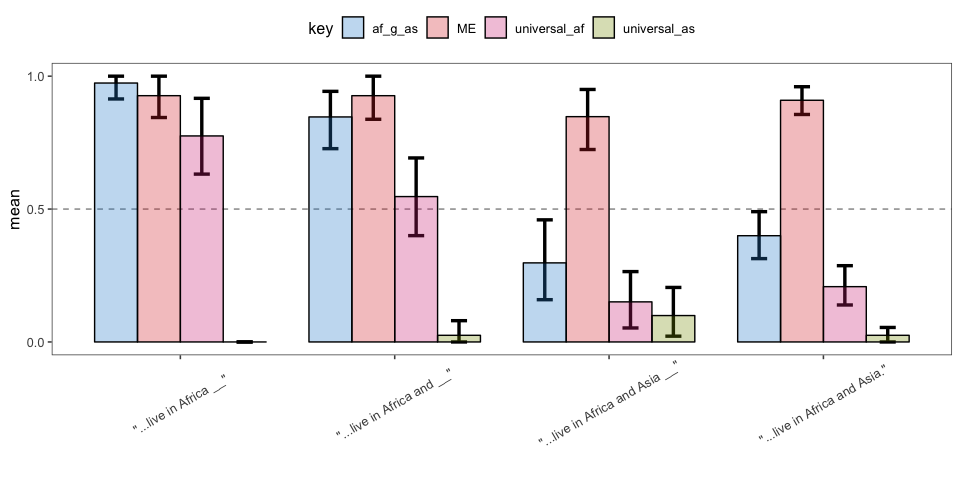
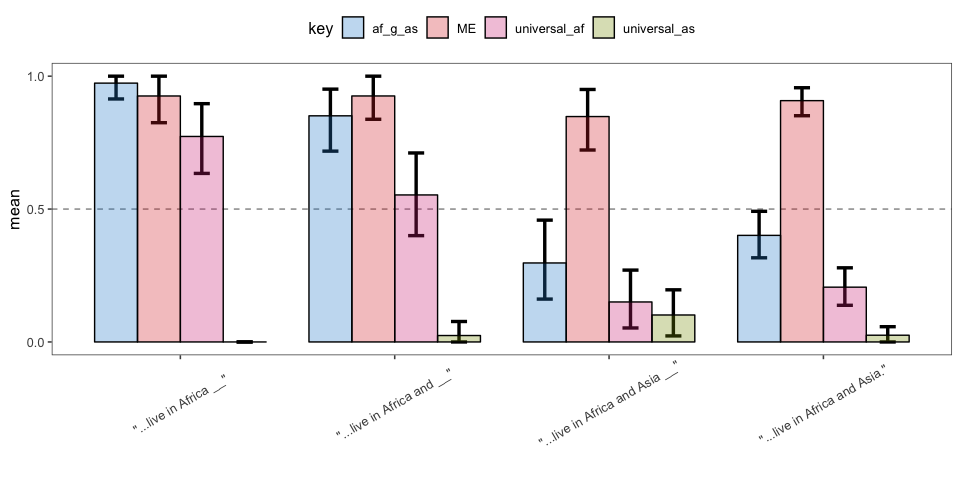
categorize stims for elephants-7, item analysis for elephants-7

diff --git a/experiments/js/stims-7.js b/experiments/js/stims-7.js
@@ -28,7 +28,8 @@ var filler_chapters = [
     property2: "are provided for by Zorxon",
       type: "filler",
       information: "full",
-      conjunctionBreak: "before"
+      conjunctionBreak: "before",
+      coordination: "vp"
   },
   {
     title: "Blins",
@@ -43,7 +44,8 @@ var filler_chapters = [
     property1: "have hollow bones",
       property2: "fly",
       information: "full",
-      conjuctionBreak: "after"
+      conjuctionBreak: "after",
+      coordination: "np"
   },
   {
     title: "Weather",
@@ -59,7 +61,8 @@ var filler_chapters = [
     property2: "last a long time",
       type: "filler",
       information: "full",
-      conjunctionBreak: "before"
+      conjunctionBreak: "before",
+      coordination: "np"
   },
   {
     title: "Morseths",
@@ -75,7 +78,8 @@ var filler_chapters = [
     property1: "build permanent structures called fendles",
       property2: "come on land to find mates",
       information: "both",
-      conjunctionBreak: "after"
+      conjunctionBreak: "after",
+      coordination: "np"
   },
   {
     title: "Kazzes",
@@ -90,7 +94,8 @@ var filler_chapters = [
     type: "filler",
       quantifier: "none",
       information: "full",
-      conjunctionBreak: "before"
+      conjunctionBreak: "before",
+      coordination: "np"
   },
   {
     title: "Wint of the Mountains",
@@ -107,7 +112,8 @@ var filler_chapters = [
     type: "filler",
       condition: "uninterrupted",
       information: "interruption",
-      conjunctionBreak: "after"
+      conjunctionBreak: "after",
+      coordination: "np"
   },
   {
       title: "Plovs",
@@ -123,7 +129,8 @@ var filler_chapters = [
       type: "filler",
       quantifier: "none",
       information: "both",
-      conjunctionBreak: "before"
+      conjunctionBreak: "before",
+      coordination: "np"
   },
   {
       title: "Yomis",
@@ -140,7 +147,8 @@ var filler_chapters = [
       condition: "single",
       quantifier: "all",
       information: "both",
-      conjunctionBreak: "after"
+      conjunctionBreak: "after",
+      coordination: "ap"
   },
   {
       title: "Mupors",
@@ -156,7 +164,8 @@ var filler_chapters = [
       condition: "single",
       quantifier: "most",
       information: "both",
-      conjunctionBreak: "before"
+      conjunctionBreak: "before",
+      coordination: "np"
   },
   {
       title: "Apaffs",
@@ -173,7 +182,8 @@ var filler_chapters = [
       condition: "single",
       quantifier: "most",
       information: "full",
-      conjunctionBreak: "after"
+      conjunctionBreak: "after",
+      coordination: "vp"
   },
   {
       title: "Supools",
@@ -189,7 +199,8 @@ var filler_chapters = [
       condition: "single",
       quantifier: "all",
       information: "full",
-      conjunctionBreak: "before"
+      conjunctionBreak: "before",
+      coordination: "pp"
   },
   {
       title: "Zorf the mapmaker",
@@ -207,7 +218,8 @@ var filler_chapters = [
       condition: "single",
       quantifier: "all",
       information: "both",
-      conjunctionBreak: "after"
+      conjunctionBreak: "after",
+      coordination: "pp"
   },
   {
       title: "Wopis",
@@ -223,7 +235,8 @@ var filler_chapters = [
       condition: "single",
       quantifier: "all",
       information: "full",
-      conjunctionBreak: "before"
+      conjunctionBreak: "before",
+      coordination: "pp"
   },
   {
       title: "Nannus",
@@ -240,7 +253,8 @@ var filler_chapters = [
       condition: "single",
       quantifier: "most",
       information: "full",
-      conjunctionBreak: "after"
+      conjunctionBreak: "after",
+      coordination: "np"
   }
 ]
 
@@ -269,7 +283,9 @@ var stims_chapters = [
     property1: "ascribe to Cabooism",
     property2: "ascribe to some other religion",
     property3: "pray three times a day",
-    type: "critical"
+      type: "critical",
+      continuationType: "fakeDefs",
+      coordination: "np"
   },
   {
     title: "Glippets",
@@ -291,12 +307,13 @@ var stims_chapters = [
     	subordFiller: "which is much stronger than on other continents",
       nme: "graze on the tall grasses"
     },
-    query: true,
     kind: "glippets",
     property1: "live on the continent of Caro",
     property2: "live on some other continent",
     property3: "graze on the tall grasses",
-    type: "critical"
+      type: "critical",
+      continuationType: "fakeNames",
+      coordination: "pp"
   },
   {
     title: "Mooks",
@@ -324,7 +341,9 @@ var stims_chapters = [
     property1: "have territories at the tops of tall mountains",
     property2: "have territories in other geographical locations",
     property3: "watch over the low-lying regions during the day",
-    type: "critical"
+      type: "critical",
+      continuationType: "real",
+      coordination: "pp"
   },
   {
     title: "Agriculture",
@@ -352,7 +371,9 @@ var stims_chapters = [
     property1: "plant fujusi",
     property2: "plant some other crop",
     property3: "spray their fields with a naturally-occurring fertilizer",
-    type: "critical"
+      type: "critical",
+      continuationType: "fakeDefs",
+      coordination: "np"
   },
   {
     title: "Fengnors",
@@ -376,12 +397,13 @@ var stims_chapters = [
 	subordFiller: "for the moment that they hatch",
       nme: "and store tree-bark in them for safe keeping"
     },
-    query: true,
     kind: "fengnor mated pairs",
     property1: "build nests in gluers",
     property2: "build nests in other places",
     property3: "store tree-bark in them for safe keeping",
-    type: "critical"
+      type: "critical",
+      continuationType: "fakeDefs",
+      coordination: "np"
   },
   {
     title: "Finding food",
@@ -409,7 +431,9 @@ var stims_chapters = [
     property1: "are stup-herders",
     property2: "do something else for a living",
     property3: "sing songs to the stups to help them relax",
-    type: "critical"
+      type: "critical",
+      continuationType: "fakeDefs",
+      coordination: "np"
   },
   {
     title: "Lorches",
@@ -436,7 +460,9 @@ var stims_chapters = [
     property1: "have long wings",
     property2: "have some other type of wing",
     property3: "have sharp claws",
-    type: "critical"
+      type: "critical",
+      continuationType: "real",
+      coordination: "np"
   },
   {
     title: "Reesles",
@@ -464,7 +490,9 @@ var stims_chapters = [
     property1: "wear wutsats around their heads",
     property2: "wear something else around their heads",
     property3: "carry sticks with them",
-    type: "critical"
+      type: "critical",
+      continuationType: "fakeDefs",
+      coordination: "np"
   },
   {
     title: "Kweps",
@@ -492,7 +520,9 @@ var stims_chapters = [
     property1: "chew on xorfun bark",
     property2: "chew on some other kind of bark",
     property3: "jump up and down in circles",
-    type: "critical"
+      type: "critical",
+      continuationType: "fakeDefs",
+      coordination: "np"
   },
   {
     title: "Ollers",
@@ -521,7 +551,9 @@ var stims_chapters = [
     property1: "carry their young in guklags",
     property2: "carry their young in something else",
     property3: "are very protective",
-    type: "critical"
+      type: "critical",
+      continuationType: "fakeDefs",
+      coordination: "np"
   },
   {
     title: "Crafts",
@@ -550,7 +582,9 @@ var stims_chapters = [
     property1: "are part of the Tinnoclan",
     property2: "are part of some other guild",
     property3: "sell their baskets in the Warfi marketplace",
-    type: "critical"
+      type: "critical",
+      continuationType: "fakeDefs",
+      coordination: "np"
   },
   {
     title: "Vimbles",
@@ -578,7 +612,9 @@ var stims_chapters = [
     property1: "hibernate in fallen logs",
     property2: "hibernate in some other location",
     property3: "give birth twice a year",
-    type: "critical"
+      type: "critical",
+      continuationType: "real",
+      coordination: "pp"
   },
   {
     title: "Isooms",
@@ -604,6 +640,8 @@ var stims_chapters = [
     property1: "has bumpy skin",
     property2: "has some other-textured skin",
     property3: "produce fruit with a sour taste",
-    type: "critical"
+      type: "critical",
+      continuationType: "real",
+      coordination: "ap"
   }
 ]

diff --git a/analysis/cogsci2019/elephants-2-cogsci2019.md b/analysis/cogsci2019/elephants-2-cogsci2019.md
@@ -270,32 +270,58 @@ Modeling
 By-item Analyses
 ----------------
 
+### Items
+
+Items can be categorized by the continuation type and the coordination type.
+
+-   continuation type: the interrupted sentence containing the questioned properties varies according to how real the subject matter is.
+    -   real: Sentence and properties are completely real.
+    -   fakeNames: The properties concern real items (like religion), but the name is made-up (Daith).
+    -   fakeDefs: The properties concern completely made-up items.
+-   coordination type: the "and" conjoins different syntactic categories
+
+| coordination | continuationType |    n|
+|:-------------|:-----------------|----:|
+| ap           | real             |    1|
+| np           | fakeDefs         |    8|
+| np           | real             |    1|
+| pp           | fakeNames        |    1|
+| pp           | real             |    2|
+
 ### Number of Participants by Item and Condition
 
-| predicate\_1                                   | predicate\_2                                     |  "...live in Africa \_\_"|  "...live in Africa and \_\_"|  "...live in Africa and Asia \_\_"|  "...live in Africa and Asia."|
-|:-----------------------------------------------|:-------------------------------------------------|-------------------------:|-----------------------------:|----------------------------------:|------------------------------:|
-| are part of the Tinnoclan                      | are part of some other guild                     |                         6|                             4|                                  4|                             22|
-| are stup-herders                               | do something else for a living                   |                        10|                             6|                                  4|                             16|
-| ascribe to Cabooism                            | ascribe to some other religion                   |                         8|                             6|                                  8|                             16|
-| build nests in gluers                          | build nests in other places                      |                         8|                             8|                                  4|                             16|
-| carry their young in guklags                   | carry their young in something else              |                         6|                            10|                                  6|                             18|
-| chew on xorfun bark                            | chew on some other kind of bark                  |                        10|                             0|                                  2|                             22|
-| has bumpy skin                                 | has some other-textured skin                     |                         4|                            10|                                  4|                             20|
-| have long wings                                | have some other type of wing                     |                         4|                             2|                                 12|                             20|
-| have territories at the tops of tall mountains | have territories in other geographical locations |                         0|                            12|                                  8|                             14|
-| hibernate in fallen logs                       | hibernate in some other location                 |                        14|                             8|                                  4|                             12|
-| live on the continent of Caro                  | live on some other continent                     |                         2|                             8|                                  2|                             24|
-| plant fujusi                                   | plant some other crop                            |                         0|                             4|                                 16|                             16|
-| wear wutsats around their heads                | wear something else around their heads           |                         8|                             2|                                  6|                             24|
+| predicate\_1                                   | predicate\_2                                     |  "...live in Africa \_\_"|  "...live in Africa and \_\_"|  "...live in Africa and Asia \_\_"|  "...live in Africa and Asia."| continuationType | coordination |
+|:-----------------------------------------------|:-------------------------------------------------|-------------------------:|-----------------------------:|----------------------------------:|------------------------------:|:-----------------|:-------------|
+| are part of the Tinnoclan                      | are part of some other guild                     |                         6|                             4|                                  4|                             22| fakeDefs         | np           |
+| are stup-herders                               | do something else for a living                   |                        10|                             6|                                  4|                             16| fakeDefs         | np           |
+| ascribe to Cabooism                            | ascribe to some other religion                   |                         8|                             6|                                  8|                             16| fakeDefs         | np           |
+| build nests in gluers                          | build nests in other places                      |                         8|                             8|                                  4|                             16| fakeDefs         | np           |
+| carry their young in guklags                   | carry their young in something else              |                         6|                            10|                                  6|                             18| fakeDefs         | np           |
+| chew on xorfun bark                            | chew on some other kind of bark                  |                        10|                             0|                                  2|                             22| fakeDefs         | np           |
+| has bumpy skin                                 | has some other-textured skin                     |                         4|                            10|                                  4|                             20| real             | ap           |
+| have long wings                                | have some other type of wing                     |                         4|                             2|                                 12|                             20| real             | np           |
+| have territories at the tops of tall mountains | have territories in other geographical locations |                         0|                            12|                                  8|                             14| real             | pp           |
+| hibernate in fallen logs                       | hibernate in some other location                 |                        14|                             8|                                  4|                             12| real             | pp           |
+| live on the continent of Caro                  | live on some other continent                     |                         2|                             8|                                  2|                             24| fakeNames        | pp           |
+| plant fujusi                                   | plant some other crop                            |                         0|                             4|                                 16|                             16| fakeDefs         | np           |
+| wear wutsats around their heads                | wear something else around their heads           |                         8|                             2|                                  6|                             24| fakeDefs         | np           |
 
 ### Pirate Plots (by item)
 
-![](elephants-2-cogsci2019_files/figure-markdown_github/unnamed-chunk-16-1.png)
+![](elephants-2-cogsci2019_files/figure-markdown_github/unnamed-chunk-17-1.png)
+
+### Pirate Plots (by Coordination)
+
+![](elephants-2-cogsci2019_files/figure-markdown_github/unnamed-chunk-18-1.png)
+
+### Pirate Plots (by Realness)
+
+![](elephants-2-cogsci2019_files/figure-markdown_github/unnamed-chunk-19-1.png)
 
 First vs. Other Trials (for each condition)
 -------------------------------------------
 
-![](elephants-2-cogsci2019_files/figure-markdown_github/unnamed-chunk-17-1.png)
+![](elephants-2-cogsci2019_files/figure-markdown_github/unnamed-chunk-20-1.png)
 
 Reaction Times
 --------------
@@ -308,4 +334,4 @@ Looking only at
 -   AF&: "Elephants live in Africa and"
 -   AF&AS: "Elephants live in Africa and Asia"
 
-![](elephants-2-cogsci2019_files/figure-markdown_github/unnamed-chunk-18-1.png)
+![](elephants-2-cogsci2019_files/figure-markdown_github/unnamed-chunk-21-1.png)

diff --git a/analysis/cogsci2019/elephants-1-cogsci2019.md b/analysis/cogsci2019/elephants-1-cogsci2019.md
@@ -238,14 +238,14 @@ Reaction Times
     ## Population-Level Effects: 
     ##                                Estimate Est.Error l-95% CI u-95% CI
     ## Intercept                          2.36      0.06     2.24     2.48
-    ## condition..liveinAfricaandAsia    -0.09      0.09    -0.25     0.08
+    ## condition..liveinAfricaandAsia    -0.08      0.09    -0.25     0.08
     ##                                Eff.Sample Rhat
-    ## Intercept                            3279 1.00
-    ## condition..liveinAfricaandAsia       3678 1.00
+    ## Intercept                            2746 1.00
+    ## condition..liveinAfricaandAsia       2754 1.00
     ## 
     ## Family Specific Parameters: 
     ##       Estimate Est.Error l-95% CI u-95% CI Eff.Sample Rhat
-    ## sigma     0.64      0.03     0.58     0.71       3391 1.00
+    ## sigma     0.64      0.03     0.59     0.70       3044 1.00
     ## 
     ## Samples were drawn using sampling(NUTS). For each parameter, Eff.Sample 
     ## is a crude measure of effective sample size, and Rhat is the potential 
